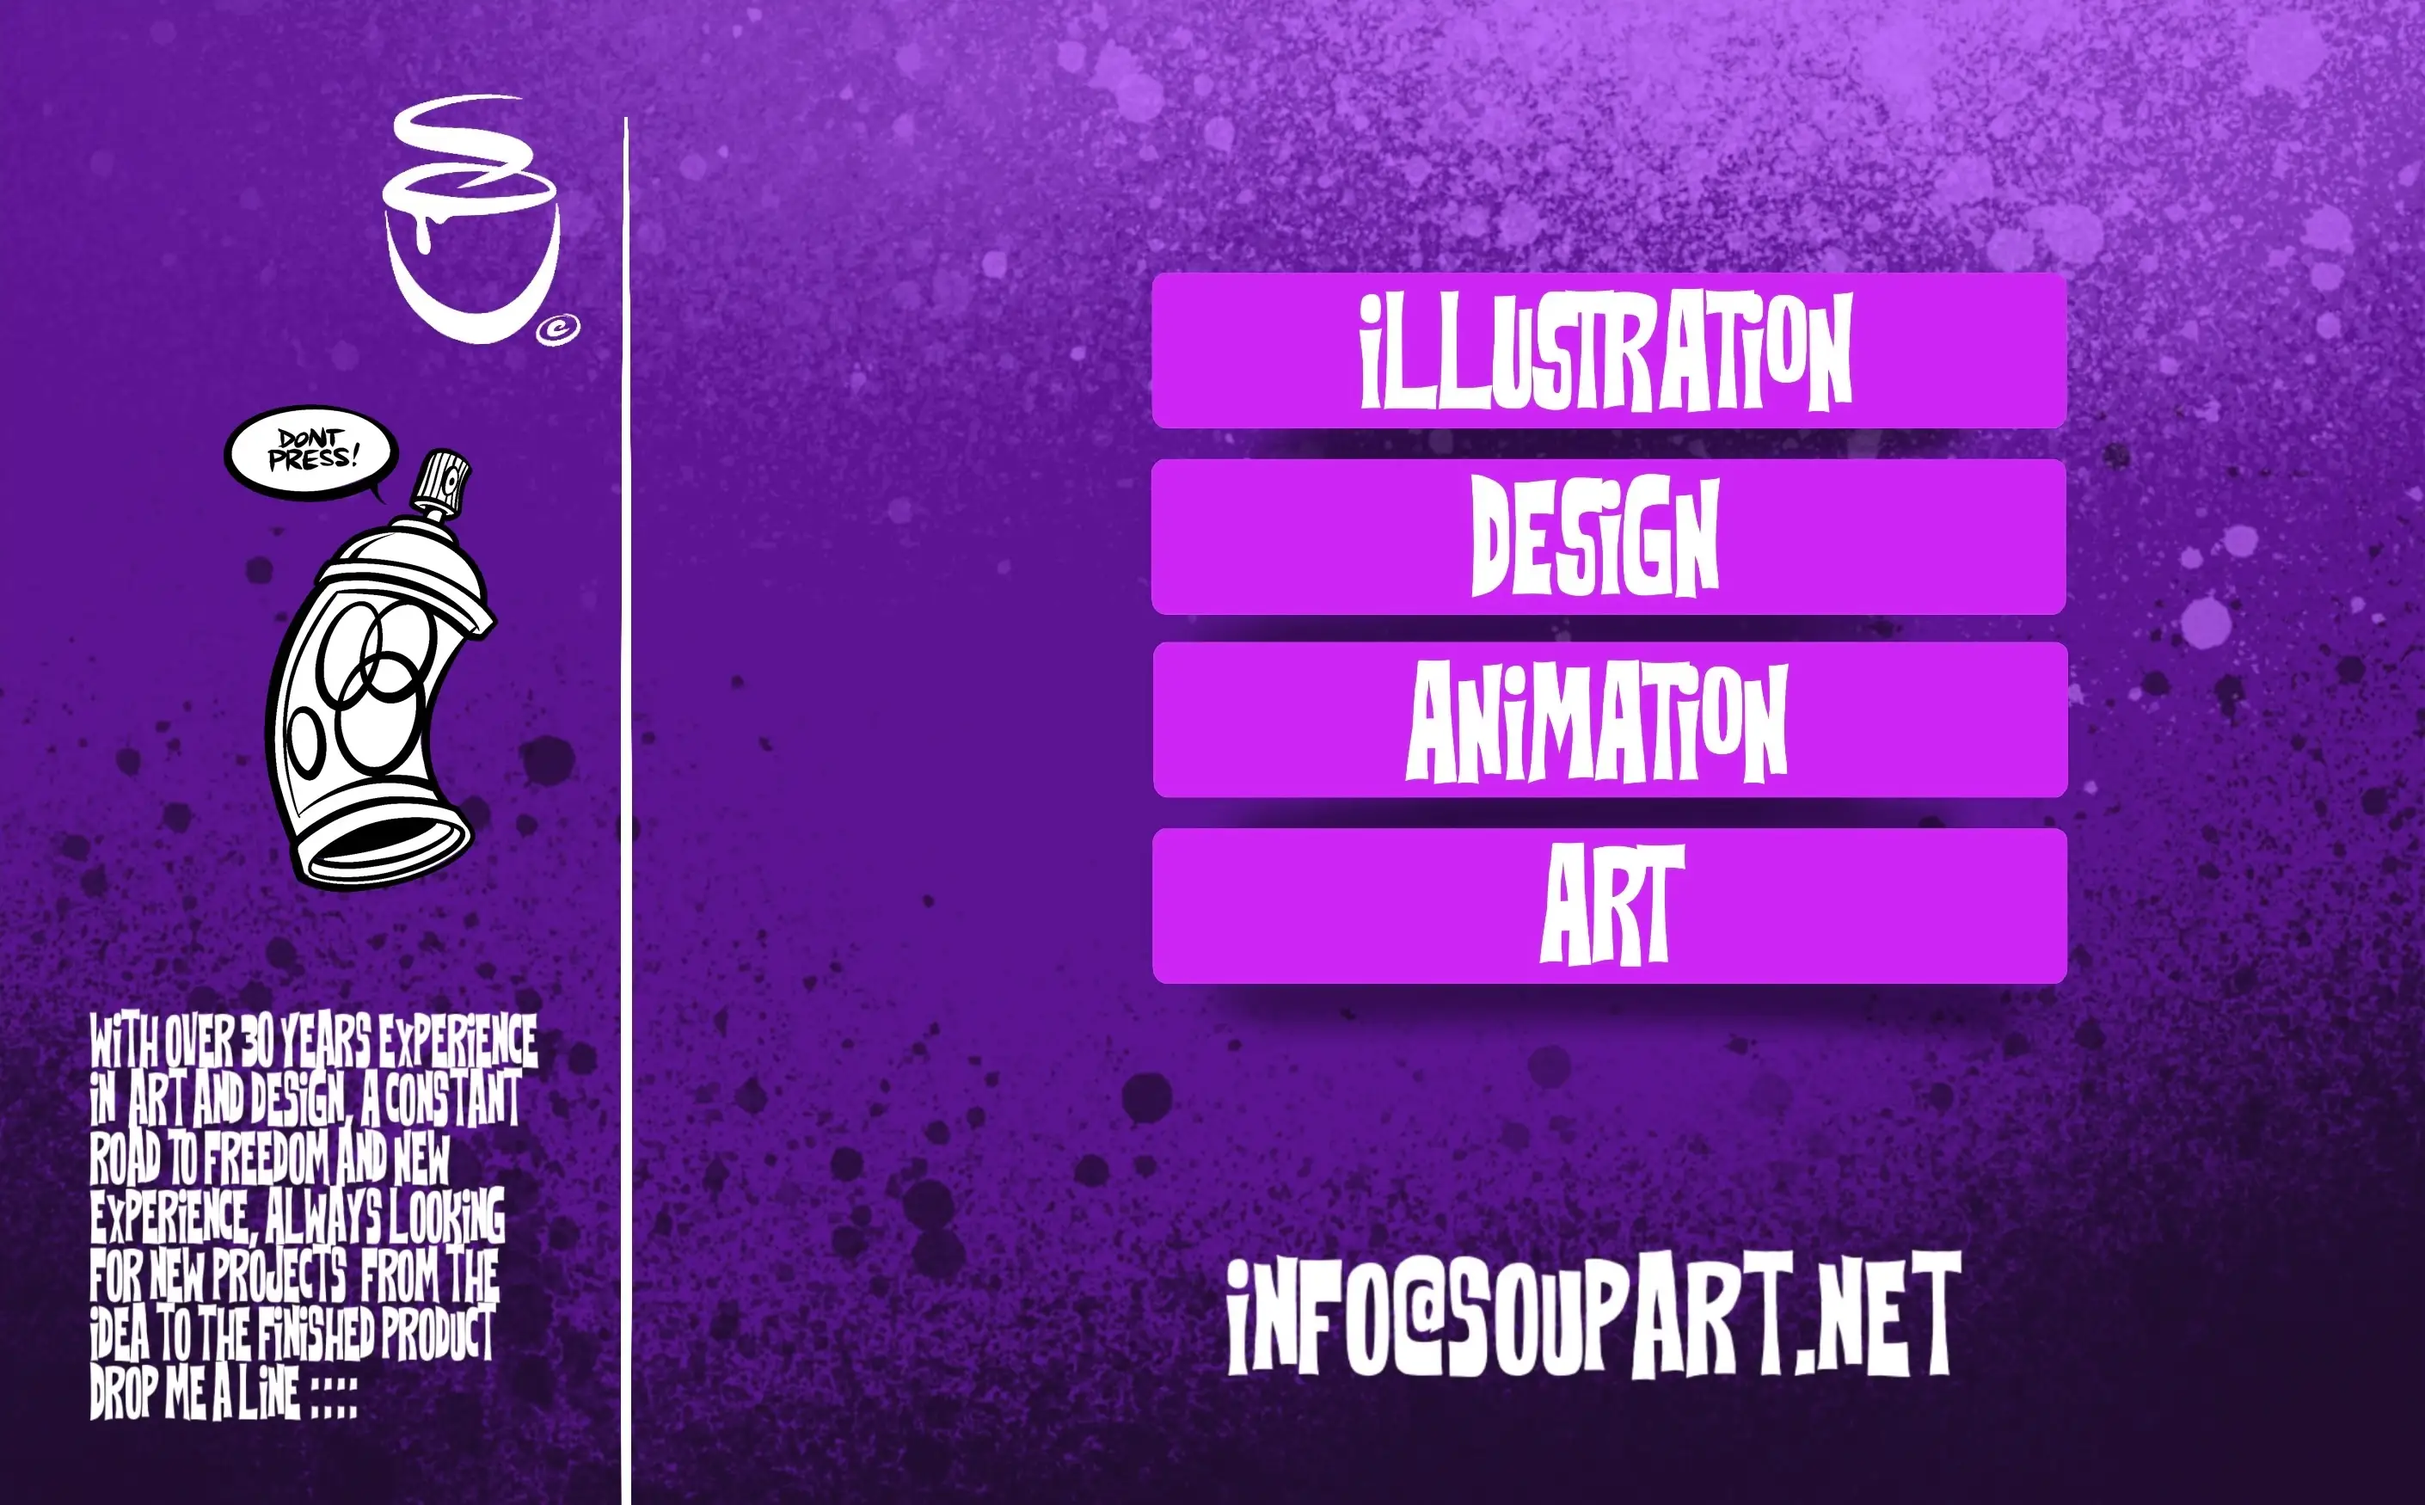
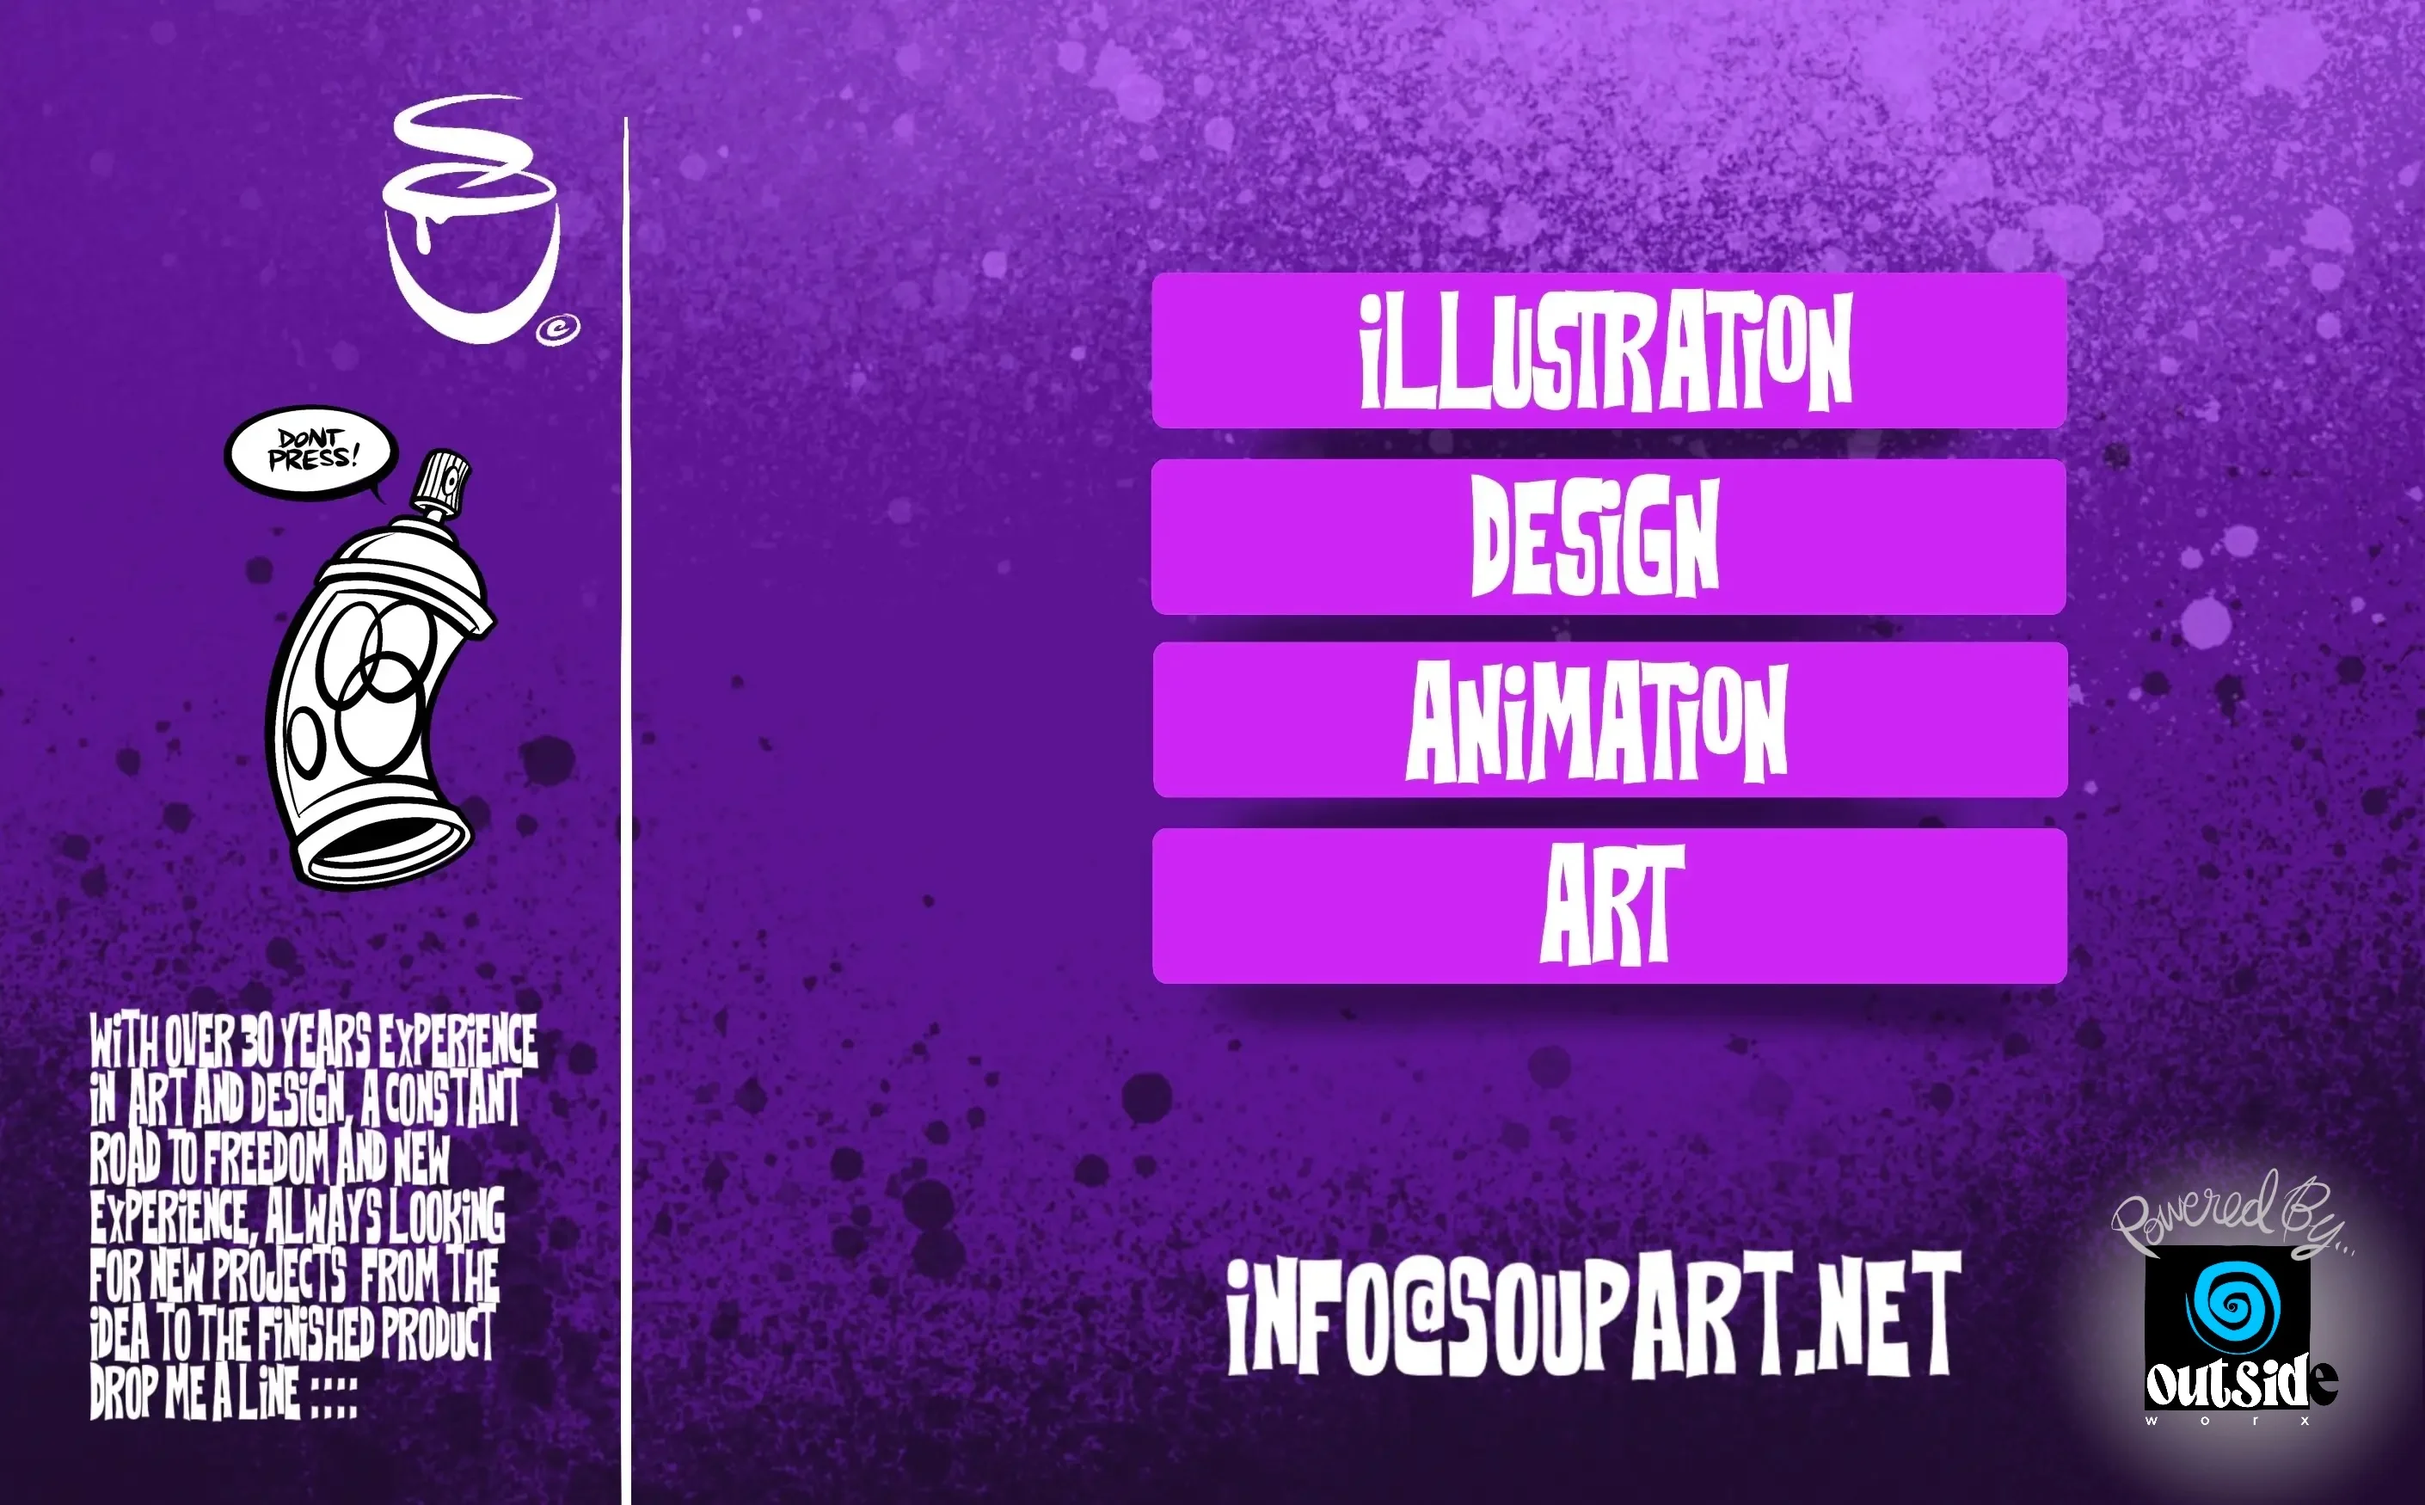
Added link.

Changed region(s): [[0.8426, 0.7714, 0.9986, 1.0]]

diff --git a/script/navigation/menu.js b/script/navigation/menu.js
@@ -4,11 +4,12 @@ function positionLinks() {
     const imgNaturalWidth = 1920;
     const imgNaturalHeight = 1080;
     const navigation = [
-        {element: document.getElementById("illustration"), x: 915, y: 190},
-        {element: document.getElementById("design"), x: 915, y: 328},
-        {element: document.getElementById("animation"), x: 915, y: 460},
-        {element: document.getElementById("art"), x: 915, y: 595},
-        {element: document.getElementById("mail"), x: 915, y: 885},
+        {element: document.getElementById("illustration"), x: 915, y: 190, width: 660},
+        {element: document.getElementById("design"), x: 915, y: 328, width: 660},
+        {element: document.getElementById("animation"), x: 915, y: 460, width: 660},
+        {element: document.getElementById("art"), x: 915, y: 595, width: 660},
+        {element: document.getElementById("mail"), x: 930, y: 885, width: 600},
+        {element: document.getElementById("outsideworx"), x: 1600, y: 900, width: 200}
     ];
 
     const imgContainer = img.parentElement;
@@ -25,7 +26,7 @@ function positionLinks() {
     navigation.forEach(hs => {
         hs.element.style.left = `${offsetX + hs.x * scale}px`;
         hs.element.style.top = `${offsetY + hs.y * scale}px`;
-        hs.element.style.width = `${660 * scale}px`;
+        hs.element.style.width = `${hs.width * scale}px`;
         hs.element.style.height = `${110 * scale}px`;
     });
 }

diff --git a/home.html b/home.html
@@ -19,6 +19,7 @@
     <a href="animation.html" class="link" id="animation"></a>
     <a href="art.html" class="link" id="art"></a>
     <a href="mailto:info@soupart.net" class="link" id="mail"></a>
+    <a href="https://outsideworx.net" class="link" id="outsideworx"></a>
 </div>
 <script src="script/orientation/mousedown.js"></script>
 <script src="script/navigation/menu.js"></script>

diff --git a/style/layout.css b/style/layout.css
@@ -34,6 +34,6 @@
 
 .link {
     position: absolute;
-    background: rgba(255, 255, 255, 0.0);
+    background: rgba(255, 255, 255, 0.25);
     cursor: pointer;
 }
